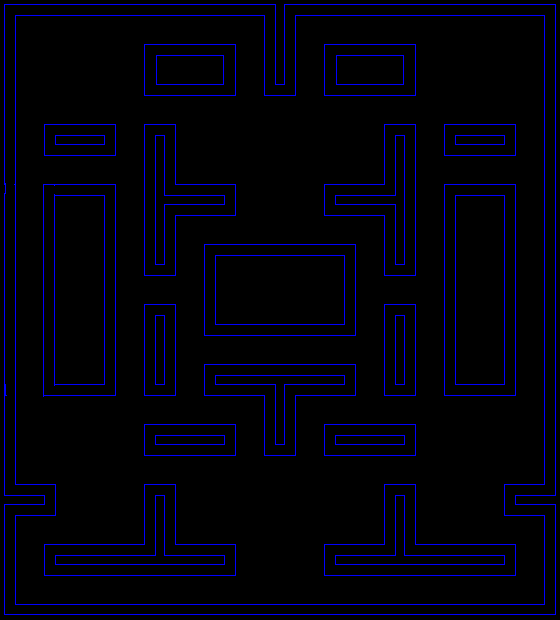
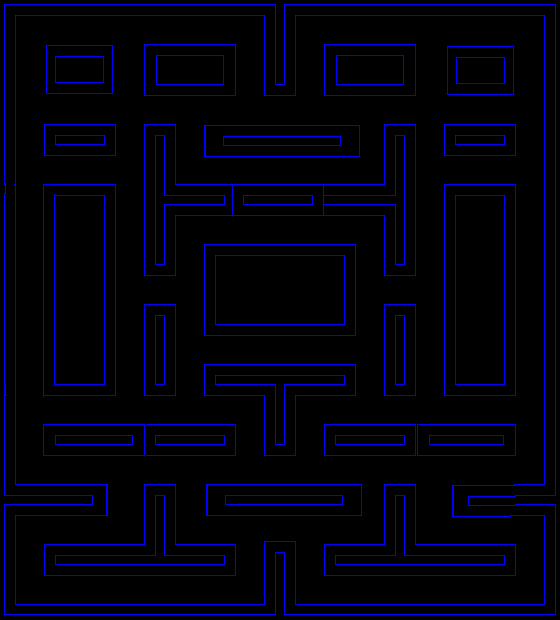
Maze 2 complete

diff --git a/app_class.py b/app_class.py
@@ -1,10 +1,10 @@
 import pygame 
-import pygame_menu
 import sys
 import copy
 from settings import *
 from player import *
 from enemy_class import *
+import random
 
 
 pygame.init()
@@ -27,6 +27,8 @@ class App:
         self.p_pos = None
         self.totalscore=0
         self.mazetype = 'default'
+        self.mazelocation = 'maze2.png'
+        self.wallslocation = 'walls2.txt'
         self.load()
         self.player = Player(self, vec(self.p_pos))
         self.make_enemies()
@@ -39,6 +41,10 @@ class App:
                 self.start_update()
                 self.start_draw()
             elif self.state == 'playing':
+                if self.mazetype == 'random':
+                    self.randomise()
+
+
                 self.playing_events()
                 self.playing_update()
                 self.playing_draw()
@@ -64,13 +70,13 @@ class App:
         screen.blit(text, pos)
 
     def load(self):
-        self.background = pygame.image.load('maze.png')
+        self.background = pygame.image.load(self.mazelocation)
         self.background = pygame.transform.scale(self.background, (MAZE_WIDTH, MAZE_HEIGHT))
         
         # Opening walls file
         # Creating walls list with co-ords of walls
         # stored as  a vector
-        with open("walls.txt", 'r') as file:
+        with open(self.wallslocation, 'r') as file:
             for yidx, line in enumerate(file):
                 for xidx, char in enumerate(line):
                     if char == "1":
@@ -117,7 +123,7 @@ class App:
 
         self.coins = []
         self.pellet = []
-        with open("walls.txt", 'r') as file:
+        with open(self.wallslocation, 'r') as file:
             for yidx, line in enumerate(file):
                 for xidx, char in enumerate(line):
                     if char == 'C':
@@ -174,6 +180,15 @@ class App:
         
 
 ########################### PLAYING FUNCTIONS ##################################
+    def randomise(self):
+        #randomnum=random.uniform(0, 1)
+        randomnum=1
+        if randomnum==0:
+            pass
+        elif randomnum==1:
+            self.mazelocation = 'maze2.png'
+            self.wallslocation = 'walls2.txt'
+
 
     def playing_events(self):
         for event in pygame.event.get():

diff --git a/player.py b/player.py
@@ -14,7 +14,7 @@ class Player:
         self.able_to_move = True
         self.current_score = 0
         self.speed = 2
-        self.lives = 1
+        self.lives = 3
         self.power = False
         self.start_timer = None
         
